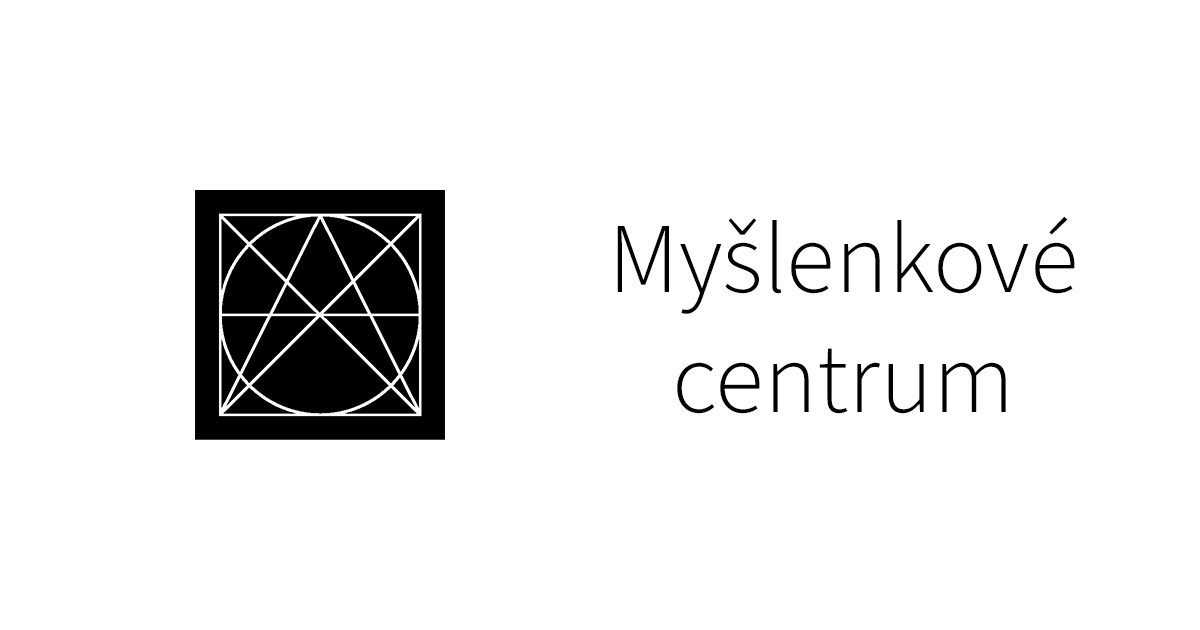
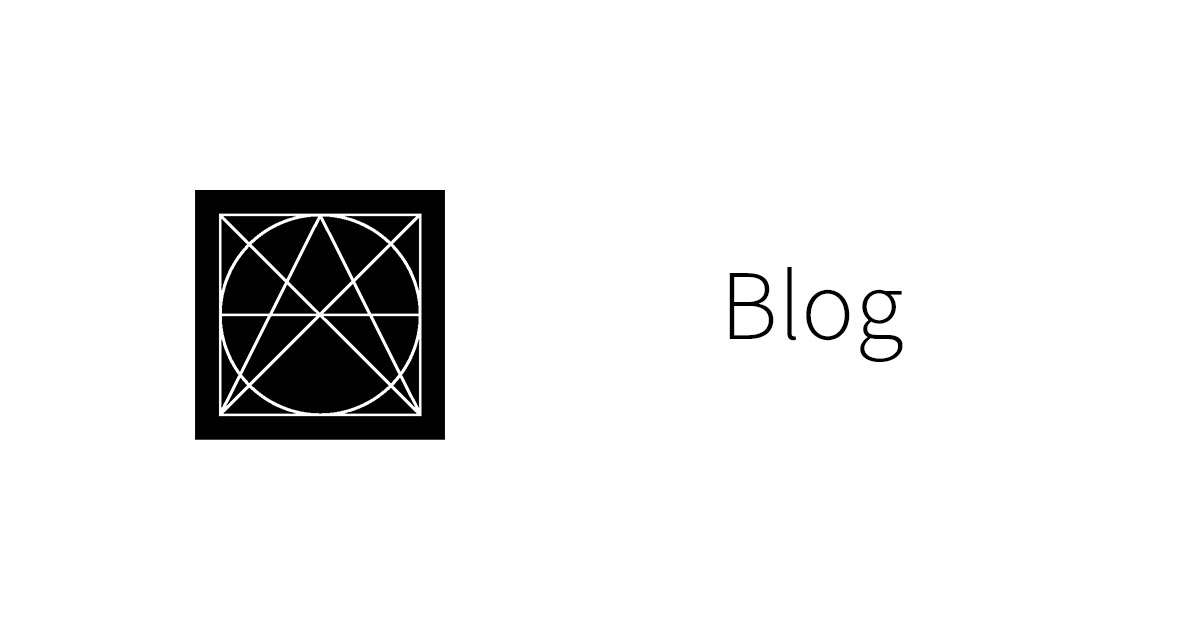
added project

Changed region(s): [[0.4933, 0.3317, 0.8942, 0.6635]]

diff --git a/blog/projekty/index.html b/blog/projekty/index.html
@@ -86,7 +86,7 @@ COPYRIGHT Jan Kubat 2020
                         <div class="card mb-3">
 						  	<div class="row g-0">
 						    	<div class="col-md-4">
-						      		<img src="./img/kcs.png" alt="kcs_image" class="img-fluid">
+						      		<img src="./img/kcs.png" alt="project image" class="img-fluid">
 						    	</div>
 						    	<div class="col-md-8">
 						      		<div class="card-body">
@@ -105,7 +105,7 @@ COPYRIGHT Jan Kubat 2020
 						<div class="card mb-3">
 						  	<div class="row g-0">
 						    	<div class="col-md-4">
-						      		<img src="./img/jankubatit.png" alt="kcs_image" class="img-fluid">
+						      		<img src="./img/jankubatit.png" alt="project image" class="img-fluid">
 						    	</div>
 						    	<div class="col-md-8">
 						      		<div class="card-body">
@@ -124,7 +124,7 @@ COPYRIGHT Jan Kubat 2020
 						<div class="card mb-3">
 						  	<div class="row g-0">
 						    	<div class="col-md-4">
-						      		<img src="./img/unity.jpg" alt="kcs_image" class="img-fluid">
+						      		<img src="./img/unity.jpg" alt="project image" class="img-fluid">
 						    	</div>
 						    	<div class="col-md-8">
 						      		<div class="card-body">
@@ -143,7 +143,7 @@ COPYRIGHT Jan Kubat 2020
 						<div class="card mb-3">
 						  	<div class="row g-0">
 						    	<div class="col-md-4">
-						      		<img src="./img/jdmarket.png" alt="kcs_image" class="img-fluid">
+						      		<img src="./img/nodejs.png" alt="project image" class="img-fluid">
 						    	</div>
 						    	<div class="col-md-8">
 						      		<div class="card-body">
@@ -162,7 +162,25 @@ COPYRIGHT Jan Kubat 2020
 						<div class="card mb-3">
 						  	<div class="row g-0">
 						    	<div class="col-md-4">
-						      		<img src="./img/habbit_tracker.jpg" alt="kcs_image" class="img-fluid">
+						      		<img src="./img/home_assistant.png" alt="project image" class="img-fluid">
+						    	</div>
+						    	<div class="col-md-8">
+						      		<div class="card-body">
+						      			<small class="text-muted card-text d-inline float-right">Home Assistant</small>
+								        <h5 class="card-title d-inline">Domácí automatizace</h5>
+								        <p class="card-text">
+								        	K fungování domácí automatizace jsem použil Home Assitanta, jelikož je jednoduchý a přehledný. Automatizaci používají všichni v domě. Arduino, RPi 3 a ostatní „chytré“ doplňky. Používám dost automatizací. Nejvíc asi na teplo v koupelně a pak na ledky.
+								        </p>
+								        <p class="card-text date"><small class="text-muted float-right">2021</small></p>
+						      		</div>
+						    	</div>
+						  	</div>
+						</div>
+
+						<div class="card mb-3">
+						  	<div class="row g-0">
+						    	<div class="col-md-4">
+						      		<img src="./img/nodejs.png" alt="project image" class="img-fluid">
 						    	</div>
 						    	<div class="col-md-8">
 						      		<div class="card-body">
@@ -181,7 +199,7 @@ COPYRIGHT Jan Kubat 2020
 						<div class="card mb-3">
 						  	<div class="row g-0">
 						    	<div class="col-md-4">
-						      		<img src="./img/python.jpg" alt="kcs_image" class="img-fluid">
+						      		<img src="./img/python.jpg" alt="project image" class="img-fluid">
 						    	</div>
 						    	<div class="col-md-8">
 						      		<div class="card-body">
@@ -200,7 +218,7 @@ COPYRIGHT Jan Kubat 2020
 						<div class="card mb-3">
 						  	<div class="row g-0">
 						    	<div class="col-md-4">
-						      		<img src="./img/python.jpg" alt="kcs_image" class="img-fluid">
+						      		<img src="./img/python.jpg" alt="project image" class="img-fluid">
 						    	</div>
 						    	<div class="col-md-8">
 						      		<div class="card-body">
@@ -219,7 +237,7 @@ COPYRIGHT Jan Kubat 2020
 						<div class="card mb-3">
 						  	<div class="row g-0">
 						    	<div class="col-md-4">
-						      		<img src="./img/python.jpg" alt="kcs_image" class="img-fluid">
+						      		<img src="./img/python.jpg" alt="project image" class="img-fluid">
 						    	</div>
 						    	<div class="col-md-8">
 						      		<div class="card-body">
@@ -238,7 +256,7 @@ COPYRIGHT Jan Kubat 2020
 						<div class="card mb-3">
 						  	<div class="row g-0">
 						    	<div class="col-md-4">
-						      		<img src="./img/python.jpg" alt="kcs_image" class="img-fluid">
+						      		<img src="./img/python.jpg" alt="project image" class="img-fluid">
 						    	</div>
 						    	<div class="col-md-8">
 						      		<div class="card-body">
@@ -257,7 +275,7 @@ COPYRIGHT Jan Kubat 2020
 						<div class="card mb-3">
 						  	<div class="row g-0">
 						    	<div class="col-md-4">
-						      		<img src="./img/php.png" alt="kcs_image" class="img-fluid">
+						      		<img src="./img/php.png" alt="project image" class="img-fluid">
 						    	</div>
 						    	<div class="col-md-8">
 						      		<div class="card-body">
@@ -276,7 +294,7 @@ COPYRIGHT Jan Kubat 2020
 						<div class="card mb-3">
 						  	<div class="row g-0">
 						    	<div class="col-md-4">
-						      		<img src="./img/unity.jpg" alt="kcs_image" class="img-fluid">
+						      		<img src="./img/unity.jpg" alt="project image" class="img-fluid">
 						    	</div>
 						    	<div class="col-md-8">
 						      		<div class="card-body">
@@ -295,7 +313,7 @@ COPYRIGHT Jan Kubat 2020
 						<div class="card mb-3">
 						  	<div class="row g-0">
 						    	<div class="col-md-4">
-						      		<img src="./img/javascript.png" alt="kcs_image" class="img-fluid">
+						      		<img src="./img/javascript.png" alt="project image" class="img-fluid">
 						    	</div>
 						    	<div class="col-md-8">
 						      		<div class="card-body">
@@ -315,7 +333,7 @@ COPYRIGHT Jan Kubat 2020
 						<div class="card mb-3">
 						  	<div class="row g-0">
 						    	<div class="col-md-4">
-						      		<img src="./img/php.png" alt="kcs_image" class="img-fluid">
+						      		<img src="./img/php.png" alt="project image" class="img-fluid">
 						    	</div>
 						    	<div class="col-md-8">
 						      		<div class="card-body">
@@ -334,7 +352,7 @@ COPYRIGHT Jan Kubat 2020
 						<div class="card mb-3">
 						  	<div class="row g-0">
 						    	<div class="col-md-4">
-						      		<img src="./img/C-Sharp.png" alt="kcs_image" class="img-fluid">
+						      		<img src="./img/C-Sharp.png" alt="project image" class="img-fluid">
 						    	</div>
 						    	<div class="col-md-8">
 						      		<div class="card-body">

diff --git a/index.html b/index.html
@@ -104,7 +104,7 @@ COPYRIGHT Jan Kubat 2020
 			<div class="btn-group">
 				<a class="m-2 btn btn-outline-dark btn-lg" href="./certificates" target="blank_">Certifikáty <i class="fas fa-certificate"></i></a>
 				<a class="m-2 btn btn-outline-dark btn-lg" href="./blog/knihy" target="blank_">Knihy <i class="fas fa-book"></i></a>
-				<a class="m-2 btn btn-outline-dark btn-lg" href="./blog/" target="blank_">Myšlenkové centrum <i class="fas fa-globe"></i></a>
+				<a class="m-2 btn btn-outline-dark btn-lg" href="./blog/" target="blank_">Blog <i class="fas fa-globe"></i></a>
 			</div>
 		</div>
 	</div>
